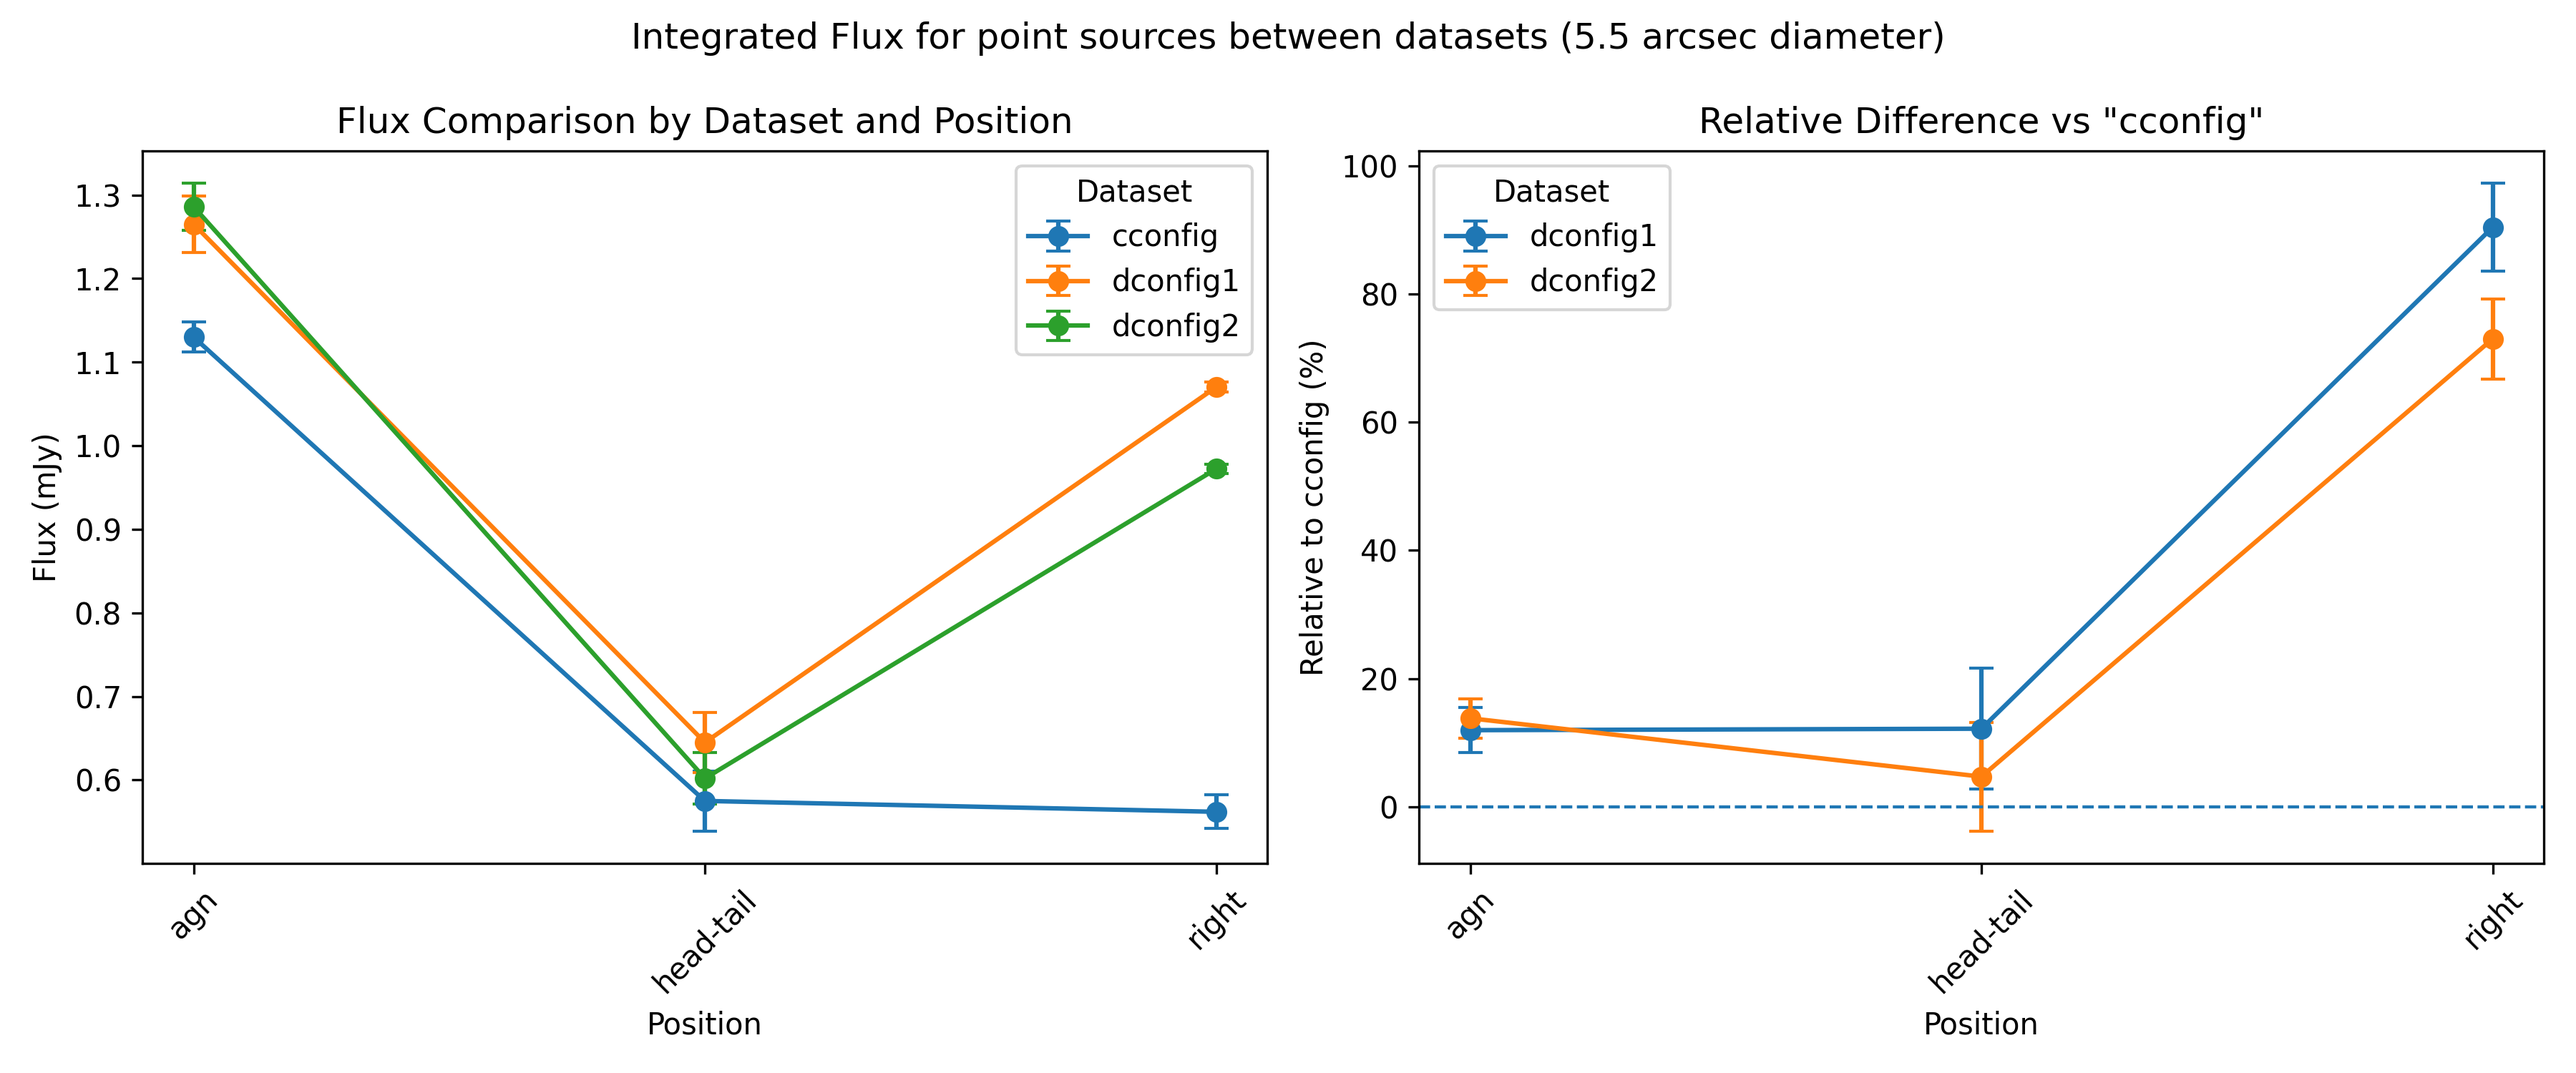
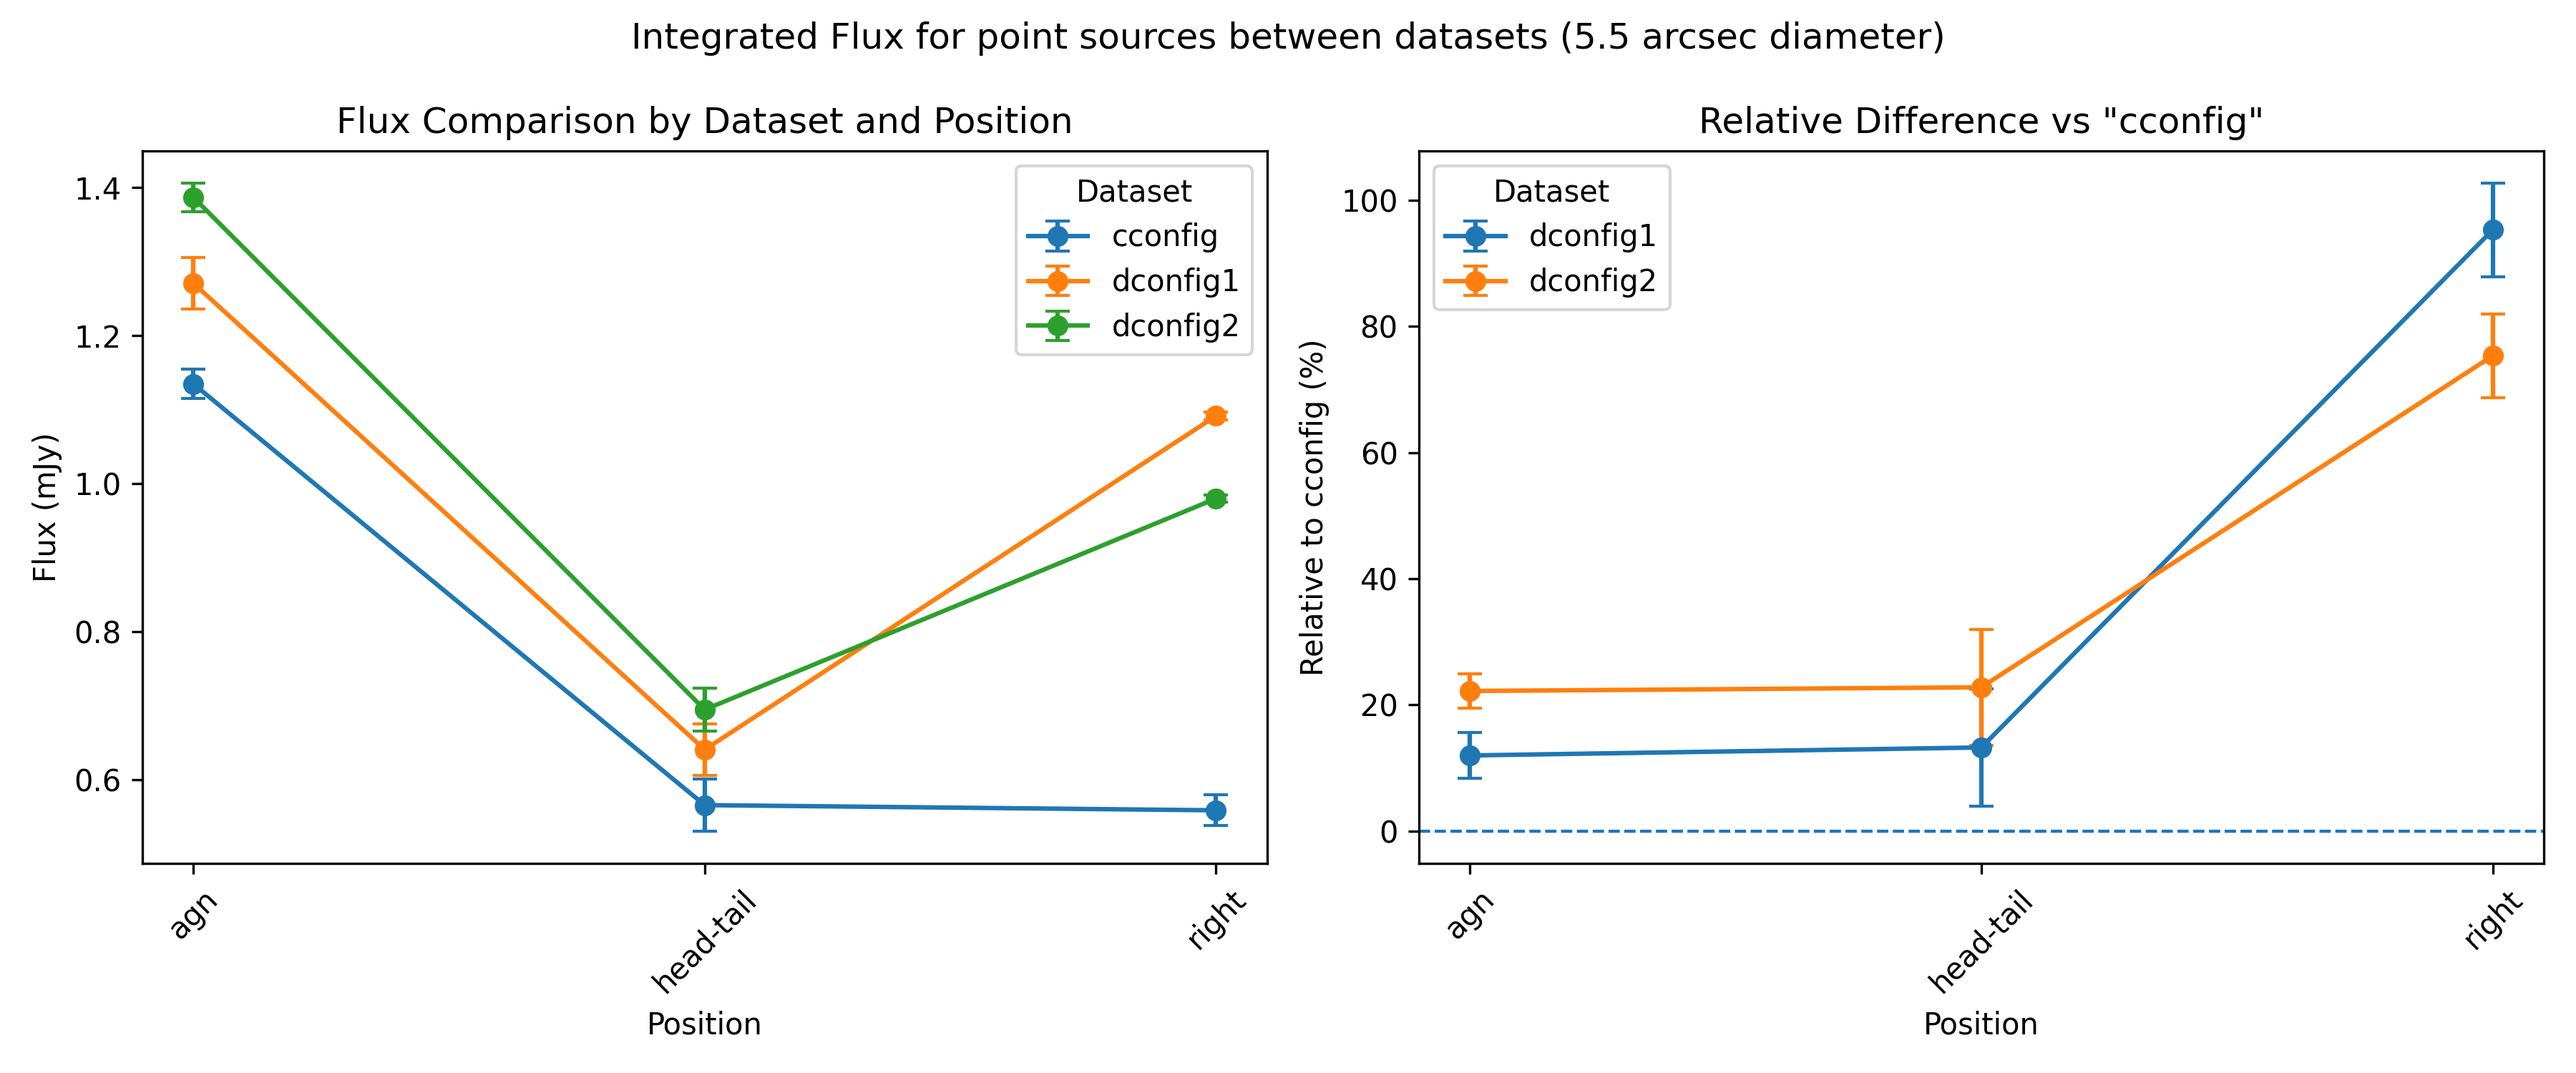
refactor: Cleaning up scripts

diff --git a/Image-Processing/RXJ1720.1+2638/minihalo/config_tests/uvrange_config_test.py b/Image-Processing/RXJ1720.1+2638/minihalo/config_tests/uvrange_config_test.py
@@ -1,3 +1,4 @@
+import os
 import numpy as np
 import matplotlib.pyplot as plt
 from casatasks import tclean, imfit, impbcor, imhead
@@ -5,6 +6,8 @@ from casatasks import tclean, imfit, impbcor, imhead
 OUTPUT_DIR = "uvrange_config_tests"
 PLOT_PATH = f"uvcutoff_vs_flux.png"
 DATASETS = ["../cconfig-p5.ms", "../dconfig1-p5.ms", "../dconfig2-p5.ms"]
+
+os.makedirs(OUTPUT_DIR, exist_ok=True)
 
 def run_clean(dataset: str, imagename: str, uvrange: str):
     """ Run tclean to fit the AGN model.
@@ -37,7 +40,7 @@ for data in DATASETS:
     logset = []
     for u in uv_cutoffs:
         uvrange = f">{u}klambda"
-        test_str = f"{data.split('.')[0]}_range_{uvrange}"
+        test_str = f"{os.path.splitext(os.path.basename(data))[0]}_range_{uvrange}"
         img_prefix = f"{OUTPUT_DIR}/{test_str}"
         log_path = f"{img_prefix}.log"
 
@@ -71,7 +74,7 @@ def read_log_value(l):
 
 # Plot the results
 all_flux = {}
-fig, (ax1, ax2) = plt.subplots(1, 2)
+fig, (ax1, ax2) = plt.subplots(1, 2, figsize=(8, 4))
 for data_logset, data_name, c in zip(logs, DATASETS, ['C0', 'C1', 'C2']):
     # Pull the results for each configuration.
     peak_fluxes = []
@@ -100,18 +103,21 @@ for data_logset, data_name, c in zip(logs, DATASETS, ['C0', 'C1', 'C2']):
     all_flux[f"{data_name}_integrated_err"] = np.array(integrated_flux_errors)
 
     # Plot absolute values
-    ax1.errorbar(uv_cutoffs, peak_fluxes, yerr=peak_flux_errors, fmt='o-', color=c, label=f"{data_name} Peak (mJy/beam)")
-    ax1.errorbar(uv_cutoffs, integrated_fluxes, yerr=integrated_flux_errors, fmt='s--', color=c, label=f"{data_name} Integrated (mJy)")
+    label = f"{os.path.splitext(os.path.basename(data_name))[0].split('-')[0]}"
+    ax1.errorbar(uv_cutoffs, peak_fluxes, yerr=peak_flux_errors, fmt='o-', color=c, label=f"{label} Peak (mJy/beam)")
+    ax1.errorbar(uv_cutoffs, integrated_fluxes, yerr=integrated_flux_errors, fmt='s--', color=c, label=f"{label} Integrated (mJy)")
 
 # Plot vs cconfig
-ax2.plot(uv_cutoffs, all_flux["dconfig1-p5.ms_peak"]/all_flux["cconfig-p5.ms_peak"] - 1, label="dconfig1")
-ax2.plot(uv_cutoffs, all_flux["dconfig2-p5.ms_peak"]/all_flux["cconfig-p5.ms_peak"] - 1, label="dconfig2")
+ax2.plot(uv_cutoffs, all_flux[f"{DATASETS[1]}_peak"]/all_flux[f"{DATASETS[0]}_peak"]*100 - 100, label="dconfig1")
+ax2.plot(uv_cutoffs, all_flux[f"{DATASETS[2]}_peak"]/all_flux[f"{DATASETS[0]}_peak"]*100 - 100, label="dconfig2")
 
 fig.supxlabel("uv min cut (kλ)")
-ax2.set_ylabel("Flux density (mJy)")
-ax2.set_ylabel("Relative flux density to C config")
-plt.title("RXJ1720+2638 AGN fit vs uv-range cut")
-plt.grid(True, which='both', alpha=0.25)
-plt.legend()
+ax1.set_ylabel("Flux density (mJy)")
+ax2.set_ylabel("Relative flux density to C config [%]")
+fig.suptitle("RXJ1720+2638 AGN fit vs uv-range cut")
+ax1.grid(True, which='both', alpha=0.25)
+ax2.grid(True, which='both', alpha=0.25)
+ax1.legend()
+ax2.legend()
 plt.tight_layout()
 plt.savefig(PLOT_PATH, dpi=300)

diff --git a/Image-Processing/RXJ1720.1+2638/minihalo/agn_images/make_clean_models.py b/Image-Processing/RXJ1720.1+2638/minihalo/agn_images/make_clean_models.py
@@ -1,24 +1,20 @@
 mynterms = 2
-backup_dir = 'unmasked_models'
-os.makedirs(backup_dir, exist_ok=True)
+OUTPUT_DIR = 'masked_models'
+os.makedirs(OUTPUT_DIR, exist_ok=True)
 
 model_list = ["cconfig-p5_agn", "dconfig1-p5_agn", "dconfig2-p5_agn"]
-mask_list = ['agn2.mask', 'agn.mask', 'agn.mask']
 
-for model, mask in zip(model_list, mask_list):
-    ia.open(mask)
-    mpix=ia.getchunk().astype(bool)
-    ia.done()
+crtf = "circle[[17h20m10.03s, 26d37m31.9s], 15arcsec]"
 
-    new_model=[f'{model}.model.tt{i}' for i in range(mynterms)]
-    for i in range(mynterms):
-        if os.path.exists(f'{backup_dir}/{new_model[i]}'):
-            print(f"Warning: Backup file exists for {new_model[i]}, skipping.")
-            continue
-        os.system(f'cp -r {new_model[i]} {backup_dir}/')
-        ia.open(new_model[i])
-        pix=ia.getchunk()
-        pix[~mpix] = 0.
-        ia.putchunk(pix)
-        ia.done()
-        print(f"Done {new_model[i]}")
+for model in model_list:
+    full_models = [f'{model}.model.tt{i}' for i in range(mynterms)]
+    new_models = [f'{OUTPUT_DIR}/{m}' for m in full_models]
+    for o, m in zip(full_models, new_models):
+        os.system(f'cp -r {o} {m}')
+        ia.open(m)
+        reg = rg.fromtext(crtf, shape=ia.shape(), csys=ia.coordsys().torecord())
+        inv_reg = rg.complement(reg)
+        ia.set(0.0, region=inv_reg)
+        # ia.set(1.0, region=reg)
+        ia.close()
+        print(f"Done {m}")
